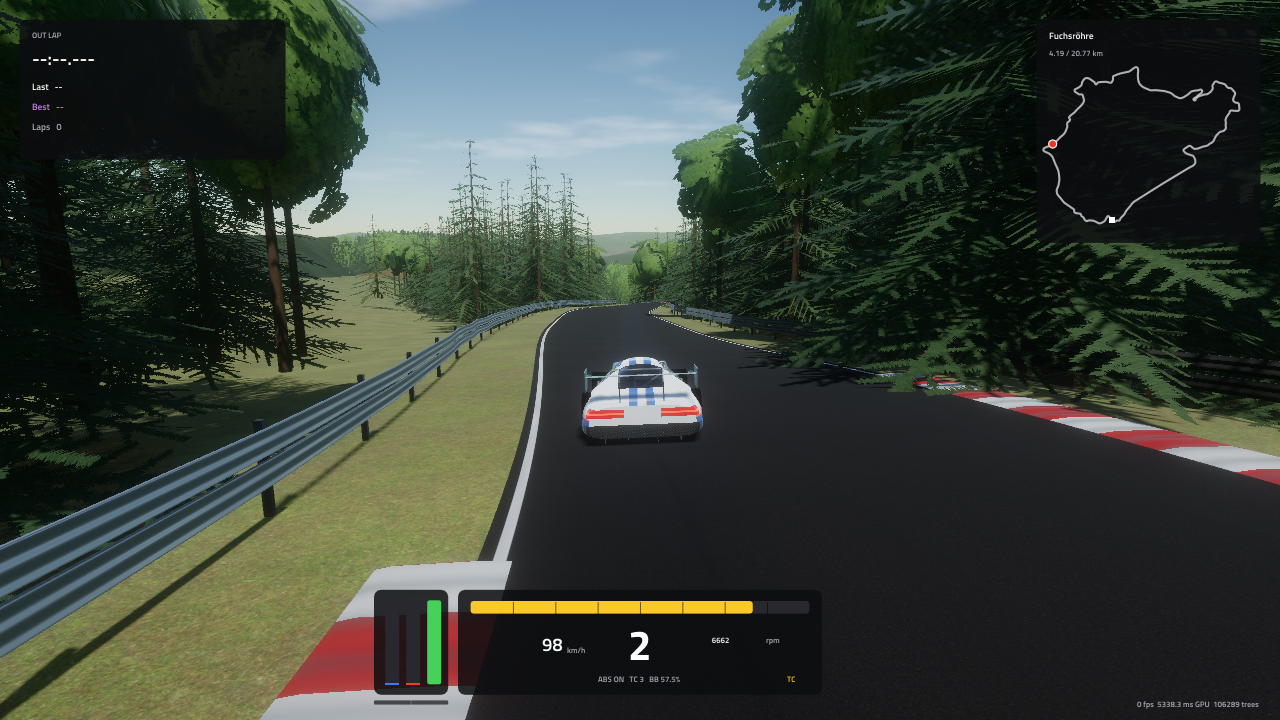
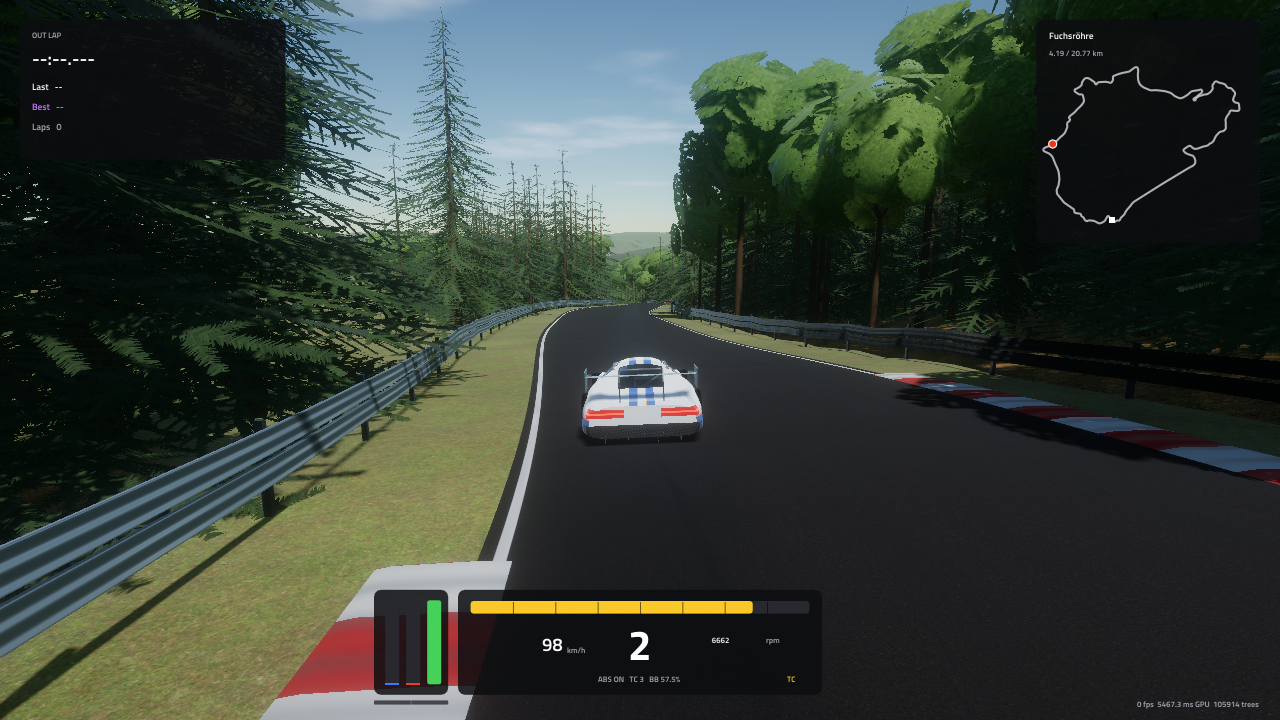
Visual polish: tree density, greener verges, TV camera spots, car body fixes, README screenshots
Claude-Session: https://claude.ai/code/session_01C7hthX6vDwhsN4ssL2yLPc

diff --git a/src/game/CameraRig.cpp b/src/game/CameraRig.cpp
@@ -22,9 +22,10 @@ glm::dmat3 yawMatrix(double a) {
 glm::vec3 CameraRig::tvCameraSpot(const TrackData& track, int index, int& side) {
     float camS = track.wrapS(index * kTvSpacing + kTvSpacing * 0.15f);
     side = (index % 2 == 0) ? 1 : -1;
-    float lat = side * (track.barrierAt(camS, side) + 1.6f);
+    // on the grass verge inside the armco, raised like a broadcast camera platform
+    float lat = side * (track.halfWidthAt(camS, side) + 2.2f);
     glm::vec3 p = track.surfacePoint(camS, lat);
-    p.y = track.terrainHeight(p.x, p.z) + 4.5f;
+    p.y += 3.2f;
     return p;
 }
 

diff --git a/src/world/Vegetation.cpp b/src/world/Vegetation.cpp
@@ -232,7 +232,7 @@ void Vegetation::build(const TrackData& track, int quality) {
                 bool nearCamera = false;
                 for (const auto& c : tvSpots) {
                     float dx = c.x - p.x, dz = c.z - p.z;
-                    if (dx * dx + dz * dz < 11.0f * 11.0f) nearCamera = true;
+                    if (dx * dx + dz * dz < 15.0f * 15.0f) nearCamera = true;
                 }
                 if (nearCamera) continue;
                 // not too close to any other part of the circuit

diff --git a/README.md b/README.md
@@ -3,7 +3,15 @@
 A sim-racing game in modern C++20 / OpenGL 4.5, in the spirit of iRacing: one car (a GT3), one track
 (the 20.8 km Nürburgring Nordschleife), and a focus on realistic handling, graphics and sound.
 
-![menu](docs/menu.png)
+![Fuchsröhre](docs/fuchsroehre.png)
+
+| | |
+|---|---|
+| ![menu](docs/menu.png) | ![cockpit](docs/cockpit.png) |
+| ![car](docs/car_side.png) | ![Karussell](docs/karussell.png) |
+
+*Screenshots are from the software renderer used in CI-style testing (llvmpipe, 2× MSAA, 720p). On a
+real GPU, use 4–8× MSAA, Ultra shadows and vegetation, and higher resolutions.*
 
 ## Features
 
